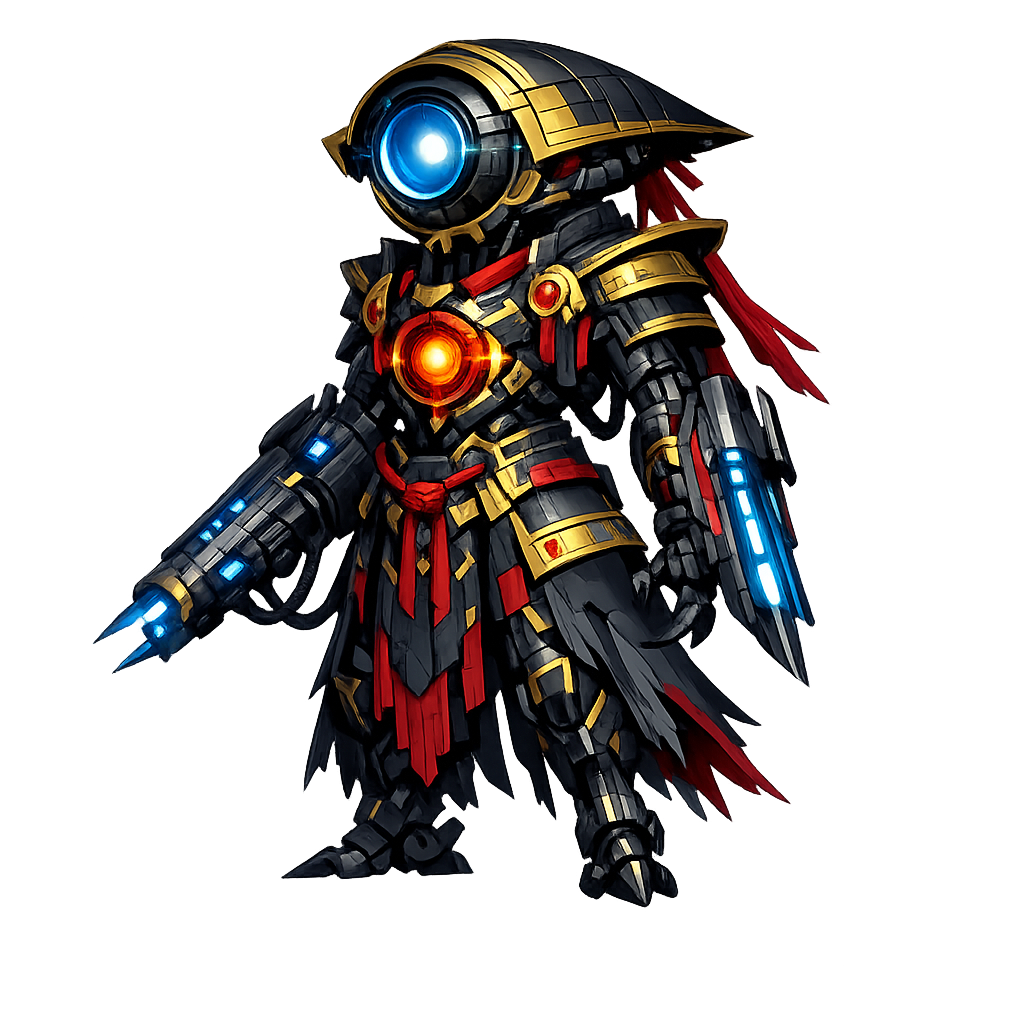
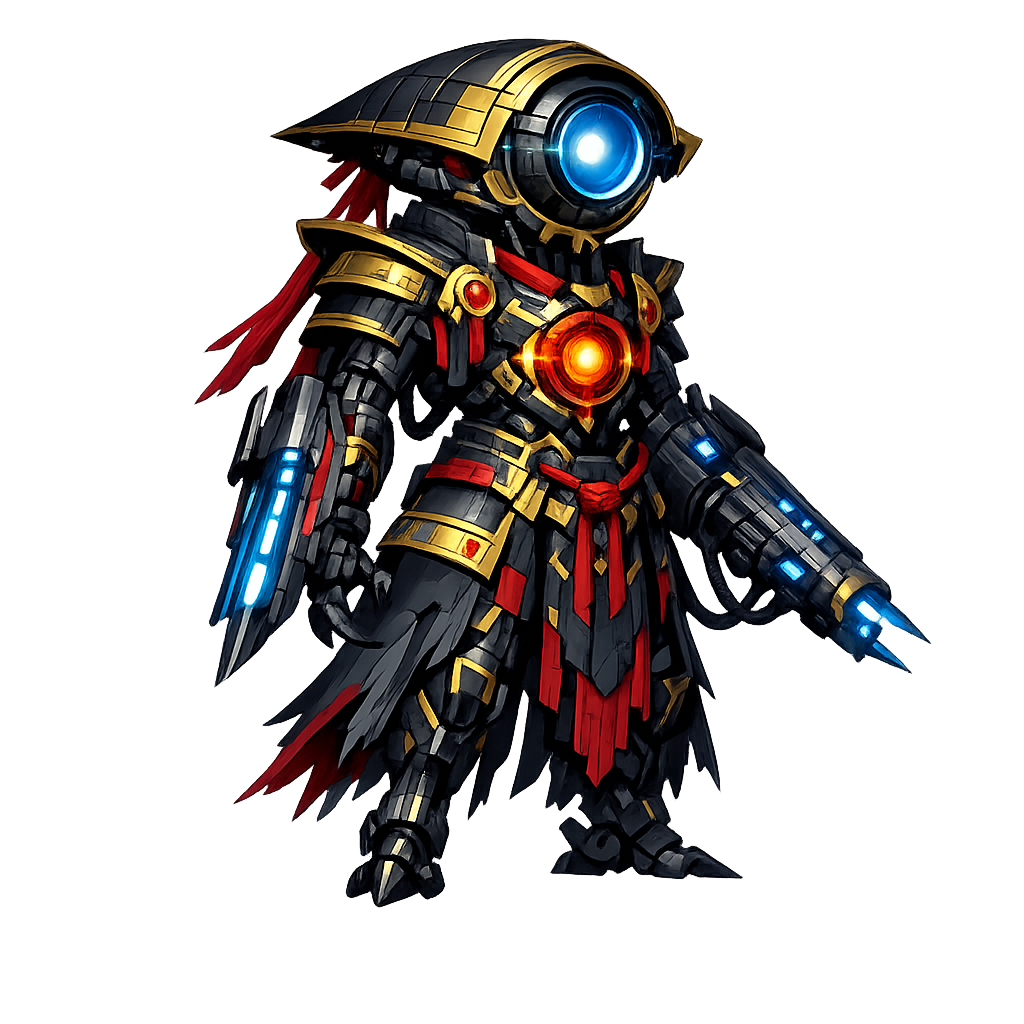
Polish shell layout and combat tuning

diff --git a/src/app/styles/app.css b/src/app/styles/app.css
@@ -307,6 +307,7 @@ html[data-app-display-mode="browser"] .app-shell {
 
 .app-meta-scene[data-scene="grimoire"],
 .app-meta-scene[data-scene="bestiary"],
+.app-meta-scene[data-scene="loot-archive"],
 .app-meta-scene[data-scene="growth"] {
   width: min(46rem, calc(100vw - var(--shell-offset-left) - var(--shell-offset-right)));
   height: min(44rem, calc(100dvh - var(--shell-offset-top) - var(--shell-offset-bottom) - 2rem));
@@ -315,6 +316,7 @@ html[data-app-display-mode="browser"] .app-shell {
 
 .app-meta-scene[data-scene="grimoire"] .app-meta-scene__frame,
 .app-meta-scene[data-scene="bestiary"] .app-meta-scene__frame,
+.app-meta-scene[data-scene="loot-archive"] .app-meta-scene__frame,
 .app-meta-scene[data-scene="growth"] .app-meta-scene__frame {
   height: 100%;
   grid-template-rows: auto minmax(0, 1fr) auto;
@@ -384,7 +386,7 @@ html[data-app-display-mode="browser"] .app-shell {
 
 .app-meta-scene__main-menu-character--hero {
   right: 0;
-  transform: translateX(14%) scaleX(-1);
+  transform: translateX(-100%) scaleX(-1);
   transform-origin: right bottom;
 }
 

diff --git a/games/emberwake/src/runtime/buildSystem.test.ts b/games/emberwake/src/runtime/buildSystem.test.ts
@@ -356,7 +356,7 @@ describe("buildSystem", () => {
     expect(vacuumStats.cooldownTicks).toBeLessThan(haloStats.cooldownTicks);
   });
 
-  it("retunes guided senbon toward lighter hits and faster cadence", () => {
+  it("retunes guided senbon toward lighter hits and slower cadence", () => {
     const buildState = normalizeBuildState({
       activeSlots: [
         {
@@ -371,7 +371,7 @@ describe("buildSystem", () => {
     const senbonStats = resolveActiveWeaponRuntimeStats(buildState, buildState.activeSlots[0]!);
 
     expect(senbonStats.damage).toBe(11);
-    expect(senbonStats.cooldownTicks).toBe(18);
+    expect(senbonStats.cooldownTicks).toBe(36);
   });
 
   it("exposes economy boss and survivability passive modifiers for the second wave", () => {

diff --git a/games/emberwake/src/runtime/entitySimulationCombat.ts b/games/emberwake/src/runtime/entitySimulationCombat.ts
@@ -656,9 +656,11 @@ export const resolveAutomaticPlayerAttack = (
     };
     applyDamageToTargetIds(targetIds, runtimeStats.damage, activeSlot.weaponId, {
       freezeDurationTicks:
-        activeSlot.weaponId === "frost-nova" || activeSlot.fusionId === "event-horizon"
-          ? Math.max(36, runtimeStats.visibleTicks * 2)
-          : undefined,
+        activeSlot.weaponId === "frost-nova"
+          ? Math.max(18, runtimeStats.visibleTicks)
+          : activeSlot.fusionId === "event-horizon"
+            ? Math.max(36, runtimeStats.visibleTicks * 2)
+            : undefined,
       pickupPulseDurationTicks:
         runtimeStats.attackKind === "vacuum"
           ? runtimeStats.visibleTicks *

diff --git a/src/game/render/CombatSkillFeedbackScene.tsx b/src/game/render/CombatSkillFeedbackScene.tsx
@@ -246,7 +246,7 @@ const drawCombatSkillFeedback =
         graphics.setStrokeStyle({
           alpha: 0.26 * alpha,
           color: 0xff5a55,
-          width: 10
+          width: 20
         });
         graphics.moveTo(
           combatSkillFeedbackEvent.originWorldPoint.x,
@@ -258,7 +258,7 @@ const drawCombatSkillFeedback =
         graphics.setStrokeStyle({
           alpha: 0.92 * alpha,
           color: 0xffd2c8,
-          width: 3
+          width: 6
         });
         graphics.moveTo(
           combatSkillFeedbackEvent.originWorldPoint.x,

diff --git a/src/game/entities/model/entitySimulation.test.ts b/src/game/entities/model/entitySimulation.test.ts
@@ -1302,6 +1302,7 @@ describe("entitySimulation", () => {
     expect(frozenHostile?.hostileControlState?.frozenUntilTick ?? 0).toBeGreaterThan(
       frozenState.tick
     );
+    expect((frozenHostile?.hostileControlState?.frozenUntilTick ?? 0) - frozenState.tick).toBe(24);
     expect(heldHostile?.velocity).toEqual({ x: 0, y: 0 });
   });
 

diff --git a/games/emberwake/src/runtime/buildSystem.ts b/games/emberwake/src/runtime/buildSystem.ts
@@ -206,7 +206,7 @@ const activeWeaponDefinitions: Record<ActiveWeaponId, ActiveWeaponDefinition> = 
   },
   "guided-senbon": {
     attackKind: "auto-target",
-    baseCooldownTicks: 18,
+    baseCooldownTicks: 36,
     baseDamage: 11,
     baseRangeWorldUnits: 330,
     baseTargetCount: 2,

diff --git a/README.md b/README.md
@@ -4,7 +4,7 @@
 
 # Emberwake
 
-Emberwake is a techno-shinobi survival action game where every run turns into a faster, louder, more dangerous fight for control. Cut through escalating hostile waves, assemble impossible builds, cash out gold into permanent growth, and push deeper each time before the world finally overwhelms you.
+Emberwake is a techno-shinobi survival action game where each run starts from an authored world choice, pushes you across a hostile map-wide mission, and asks you to extract before the pressure wins. Cut through escalating waves, assemble impossible builds, hunt mission bosses, secure mission items, and cash out gold into permanent growth before descending again.
 
 [![CI](https://github.com/AlexAgo83/emberwake/actions/workflows/ci.yml/badge.svg)](https://github.com/AlexAgo83/emberwake/actions/workflows/ci.yml)
 [![License](https://img.shields.io/github/license/AlexAgo83/emberwake)](LICENSE)
@@ -18,20 +18,24 @@ Emberwake is a techno-shinobi survival action game where every run turns into a 
 Emberwake currently includes:
 
 - Fast top-down survival combat with auto-firing weapons, passive augments, curated fusions, and run-defining build pivots.
-- A persistent `Growth` layer where gold earned in runs becomes permanent talents, shop unlocks, and longer-term progression.
-- Discoverable `Grimoire` and `Bestiary` archives that persist across runs and turn play into collectible knowledge.
-- Escalating authored pressure through time phases, boss beats, post-boss difficulty spikes, and expanding enemy variety.
+- A persistent `Growth` layer where gold earned in runs becomes permanent talents, shop unlocks, reroll/pass capacity, and longer-term progression.
+- A five-world unlock ladder with authored world cards, mission-gated progression, visible attempts/clears/progress, and per-world hostile scaling.
+- A primary map mission loop with three distant objectives, mission bosses, mission-item drops, and map exit unlock after all three are secured.
+- Discoverable `Grimoire`, `Bestiary`, and `Loot Archive` codex surfaces that persist across runs and turn play into collectible knowledge.
+- Escalating authored pressure through time phases, mini-boss beats, mission bosses, post-boss difficulty spikes, and expanding enemy variety.
 - Utility pickups such as magnets, healing kits, gold, and hourglass time-stop drops to create recovery swings in otherwise chaotic fights.
-- A shell-owned game flow with `Main menu`, `New game`, `Load game`, `Growth`, `Settings`, `Game over`, `Grimoire`, and `Bestiary`.
-- A deterministic chunked world, PixiJS runtime, and local-first persistence model built for repeatable runs and rapid iteration.
+- A shell-owned game flow with `Main menu`, `New game`, `Growth`, `Settings`, `Game over`, `Victory`, `Grimoire`, `Bestiary`, and `Loot Archive`.
+- A deterministic chunked world, PixiJS runtime, generated asset pipeline, and local-first meta progression model built for repeatable runs and rapid iteration.
 
 ```mermaid
 flowchart TD
     Shell[Shell-owned flow] --> Runtime[Pixi runtime]
+    Shell --> Worlds[Five-world ladder]
     Runtime --> World[Chunked deterministic world]
-    Runtime --> Combat[Hostiles and combat]
-    Runtime --> Loot[Pickups and gold]
-    Shell --> Persistence[Local save/load]
+    Runtime --> Mission[Three-objective mission loop]
+    Runtime --> Combat[Hostiles, mini-bosses, mission bosses]
+    Runtime --> Loot[Pickups, mission items, gold]
+    Shell --> Persistence[Local meta progression]
     Shell --> Planning[Logics workflow]
 ```
 
@@ -43,34 +47,36 @@ Current release target:
 
 What `main` reflects today:
 
-- Emberwake is already playable as a full run-based survival experience rather than a bare prototype shell.
-- The current build includes meta progression, a broadened combat roster, curated fusion payoffs, codex progression, and a strong shell-driven game flow.
-- The game is deep enough to support tuning, pacing, and content iteration as the primary focus of the next waves.
-- The project remains in active balancing and content expansion, but the core loop is now strong, legible, and shipping-oriented.
+- Emberwake is already playable as a full shell-to-runtime action loop rather than a bare prototype shell.
+- The current build includes world selection, mission-gated world progression, meta progression, broadened combat/content rosters, curated fusion payoffs, and codex-style archives.
+- Generated runtime assets now cover the hero, hostiles, bosses, pickups, skill icons, and world-card presentation more directly than the earlier placeholder-first presentation.
+- The game is now in a tuning-and-content-expansion phase where mission pacing, world differentiation, readability, and progression depth are the primary focus.
 
 ```mermaid
 flowchart LR
     Release[v0.6.1 target] --> Main[main branch]
-    Main --> Playable[Playable survival loop]
+    Main --> Playable[Playable world and mission loop]
     Main --> Modular[Modular runtime ownership]
-    Main --> Next[Balance, profiling, meta progression, content expansion]
+    Main --> Next[Balance, profiling, progression, content expansion]
 ```
 
 ## Current Gameplay Slice
 
-- Drop into a run from the shell, name the character, and survive as long as possible.
-- Move through a deterministic hostile world with obstacles, friction surfaces, and readable combat space.
-- Let the build evolve through auto-firing weapons, passive items, second-wave skills, and fusion outcomes.
-- Use pickups, chest rewards, and level-up offers to stabilize the run or snowball it.
-- End each run with recap data, damage-share ranking, earned gold, and cross-run progression.
-- Reinvest that gold in permanent growth, then come back stronger for the next attempt.
+- Choose a world from the shell, name the character, and spawn into a deterministic seed derived from the player name plus the selected world.
+- Traverse a hostile map with authored mission objectives, distinct per-world objective names/placements, obstacles, friction surfaces, and readable combat space.
+- Follow the off-screen guidance arrow to mission targets, mission bosses, dropped mission items, and mini-bosses when they sit outside the camera.
+- Let the build evolve through a dual-track level-up surface: `3` active/fusion offers, `3` passive offers, a single pick, plus reroll and pass charges.
+- Use pickups, chest rewards, utility drops, and differentiated crystal tiers to stabilize the run or snowball it.
+- Finish the run by extracting after all three mission items are secured, or lose it through defeat or explicit abandonment.
+- Review the outcome, damage-share ranking, earned gold, discoveries, attempts, and world progress, then reinvest in permanent growth.
 
 ## Why It Hooks
 
-- Runs are designed to feel doomed in the best way: the better your build gets, the longer you delay the inevitable.
+- Runs are structured, not purely endless: each world gives you a route, three objectives, bosses, and a clean extraction condition.
 - Progress happens on two levels at once: immediate power inside the run, and permanent growth outside it.
-- The shell is part of the product, not just scaffolding. Growth, codex, save/load, updates, and post-run analysis all reinforce the loop.
+- The shell is part of the product, not just scaffolding. World selection, growth, codex/archive surfaces, and post-run analysis all reinforce the loop.
 - The current direction mixes survivor-like escalation with a sharper techno-shinobi presentation instead of generic fantasy horde combat.
+- The current asset pipeline makes the game increasingly authored visually instead of relying on abstract placeholders and generic debug shapes.
 
 ## Tuning Contracts
 
@@ -88,12 +94,12 @@ flowchart LR
 
 ```mermaid
 flowchart LR
-    Menu[Main menu] --> NewGame[New game or load]
-    NewGame --> Runtime[Explore and survive]
-    Runtime --> Combat[Auto cone attack vs hostiles]
-    Combat --> Loot[Pickups]
-    Runtime --> GameOver[Game over recap]
-    GameOver --> Menu
+    Menu[Main menu] --> NewGame[World select and naming]
+    NewGame --> Runtime[Explore, fight, complete mission]
+    Runtime --> Combat[Auto attacks, bosses, pickups]
+    Combat --> Outcome[Victory, defeat, or abandon]
+    Outcome --> Growth[Recap, ranking, progression]
+    Growth --> Menu
 ```
 
 ## Tech Stack
@@ -221,36 +227,56 @@ Artifacts to inspect after a run:
 ## Controls
 
 - **Mobile:** virtual stick for direct movement.
-- **Desktop:** remappable movement controls from `Settings > Desktop controls`.
-- **Shell shortcuts:** `Escape` is used for shell navigation and menu/back behavior depending on the active surface.
+- **Desktop:** remappable movement controls from `Settings > Controls`.
+- **Shell shortcuts:** `Escape` opens the in-run shell menu during runtime and remains the general shell back/menu key on shell surfaces.
 
 ```mermaid
 flowchart LR
     Mobile[Virtual stick] --> Move[Direct movement]
     Desktop[Desktop controls] --> Rebind[Remappable movement bindings]
-    Escape[Escape] --> ShellNav[Menu or back navigation]
+    Escape[Escape] --> ShellNav[In-run menu or shell back navigation]
 ```
 
 ## Persistence
 
 Current persistence is intentionally local-first:
 
-- Single-slot save/load for the active runtime session
-- Persistent meta profile for banked gold, purchased unlocks, talent ranks, bestiary discovery, and grimoire discovery
+- No player-facing mid-run save/load loop; runs are terminally resolved through victory, defeat, or abandon
+- Persistent meta profile for banked gold, purchased unlocks, talent ranks, world progression, bestiary discovery, grimoire discovery, and loot archive discovery
 - Shell preferences persisted locally
 - Desktop control bindings persisted locally
-- Runtime world reconstructed from deterministic seed and state rather than large opaque world snapshots
+- Runtime seed derived deterministically from normalized player name plus selected world profile
+- Terminal returns to the main menu clean up runtime-owned memory/state instead of keeping a resumable run alive
 
 There is currently no backend runtime or cloud-save stack in Emberwake.
 
 ```mermaid
 flowchart TD
     Local[Local storage]
-    Local --> Save[Single-slot save]
+    Local --> Meta[Meta progression]
     Local --> Prefs[Shell preferences]
     Local --> Bindings[Desktop bindings]
-    Save --> Rebuild[World rebuilt from seed and state]
+    Meta --> Worlds[World unlocks and attempts]
+    Meta --> Archives[Bestiary, Grimoire, Loot Archive]
+    Meta --> Rebuild[World rebuilt from deterministic seed]
 ```
+
+## World Ladder
+
+- `World 1`: `Ashwake Verge`
+- `World 2`: `Emberplain Reach` (`+10%` hostile health and damage)
+- `World 3`: `Glowfen Basin` (`+20%` hostile health and damage)
+- `World 4`: `Obsidian Vault` (`+30%` hostile health and damage)
+- `World 5`: `Cinderfall Crown` (`+40%` hostile health and damage)
+
+Each world card exposes its representative asset, mission progress, attempts, clears, and lock state directly in the shell.
+
+## Runtime Presentation
+
+- The main menu now uses large runtime character and enemy assets as screen-edge background silhouettes.
+- Living entities use a left/right-facing runtime posture, with vertical movement preserving the last horizontal facing.
+- Runtime readability includes dark-on-dark separation treatment, optional debug circles behind sprites, and state-reactive health bars that flare visible on health changes.
+- Bosses, crystals, pickups, and skill icons now rely on generated runtime assets instead of a mostly placeholder-first surface.
 
 ## Delivery Workflow
 
